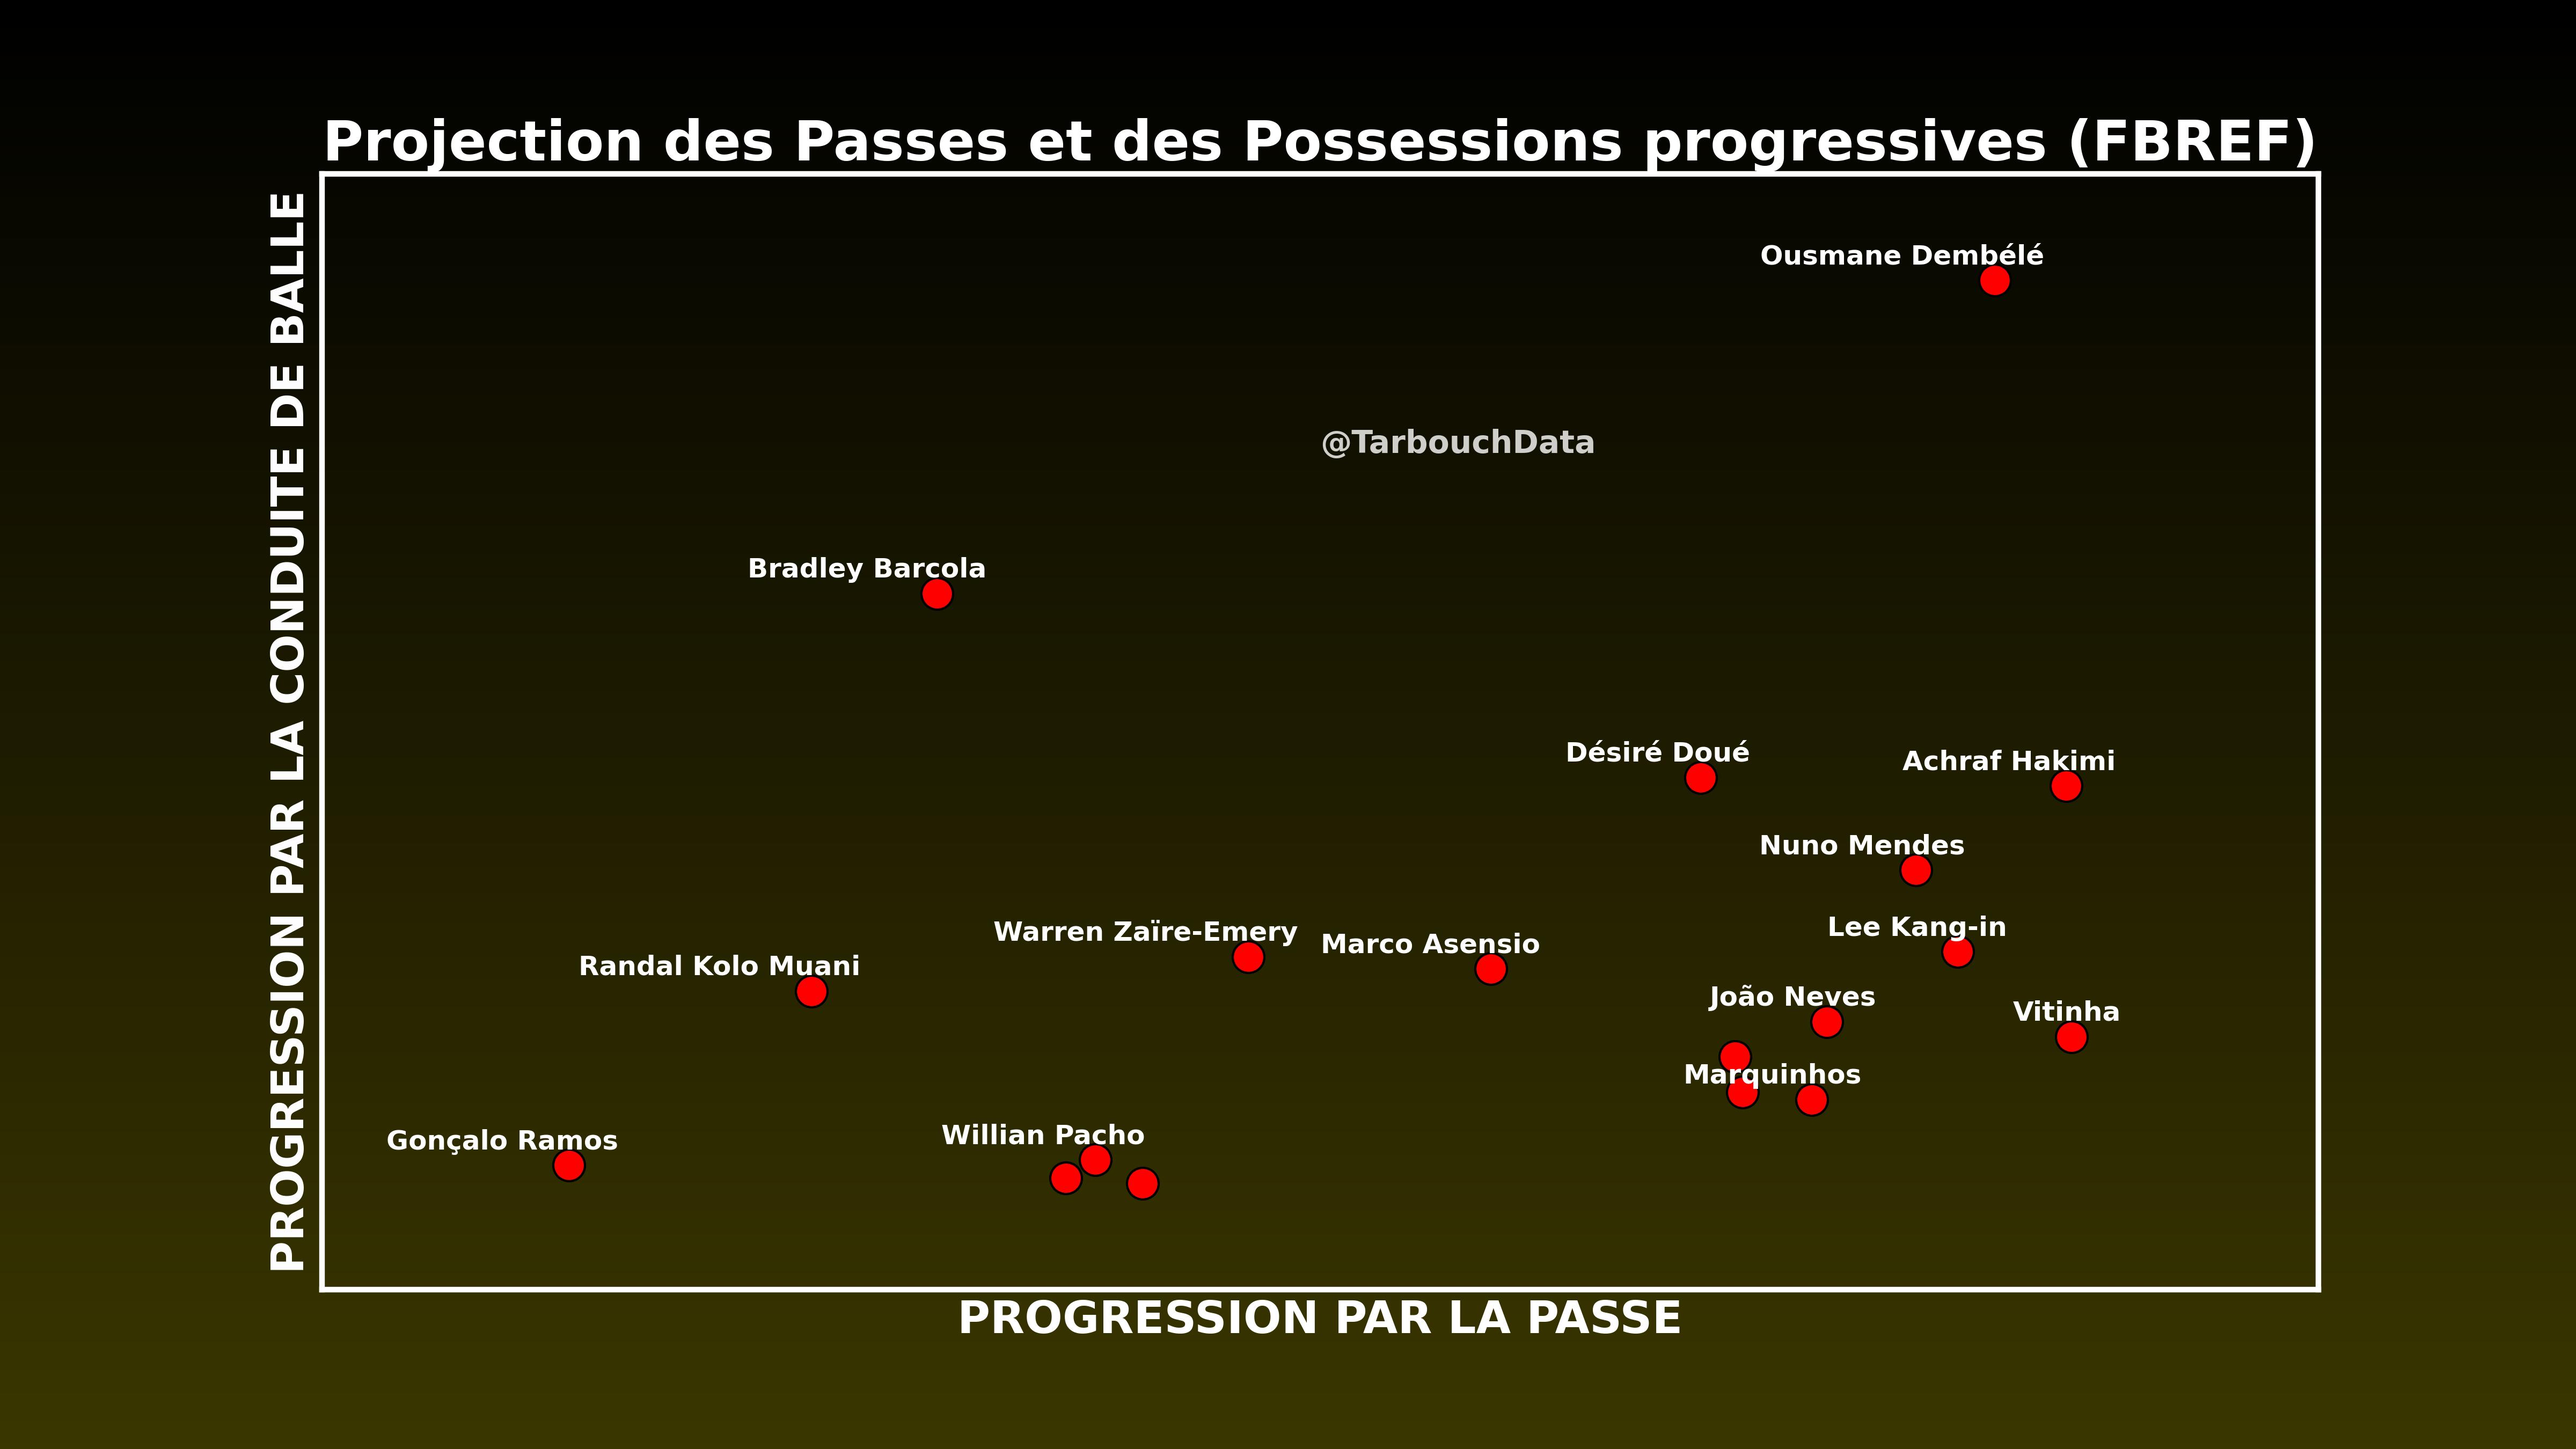
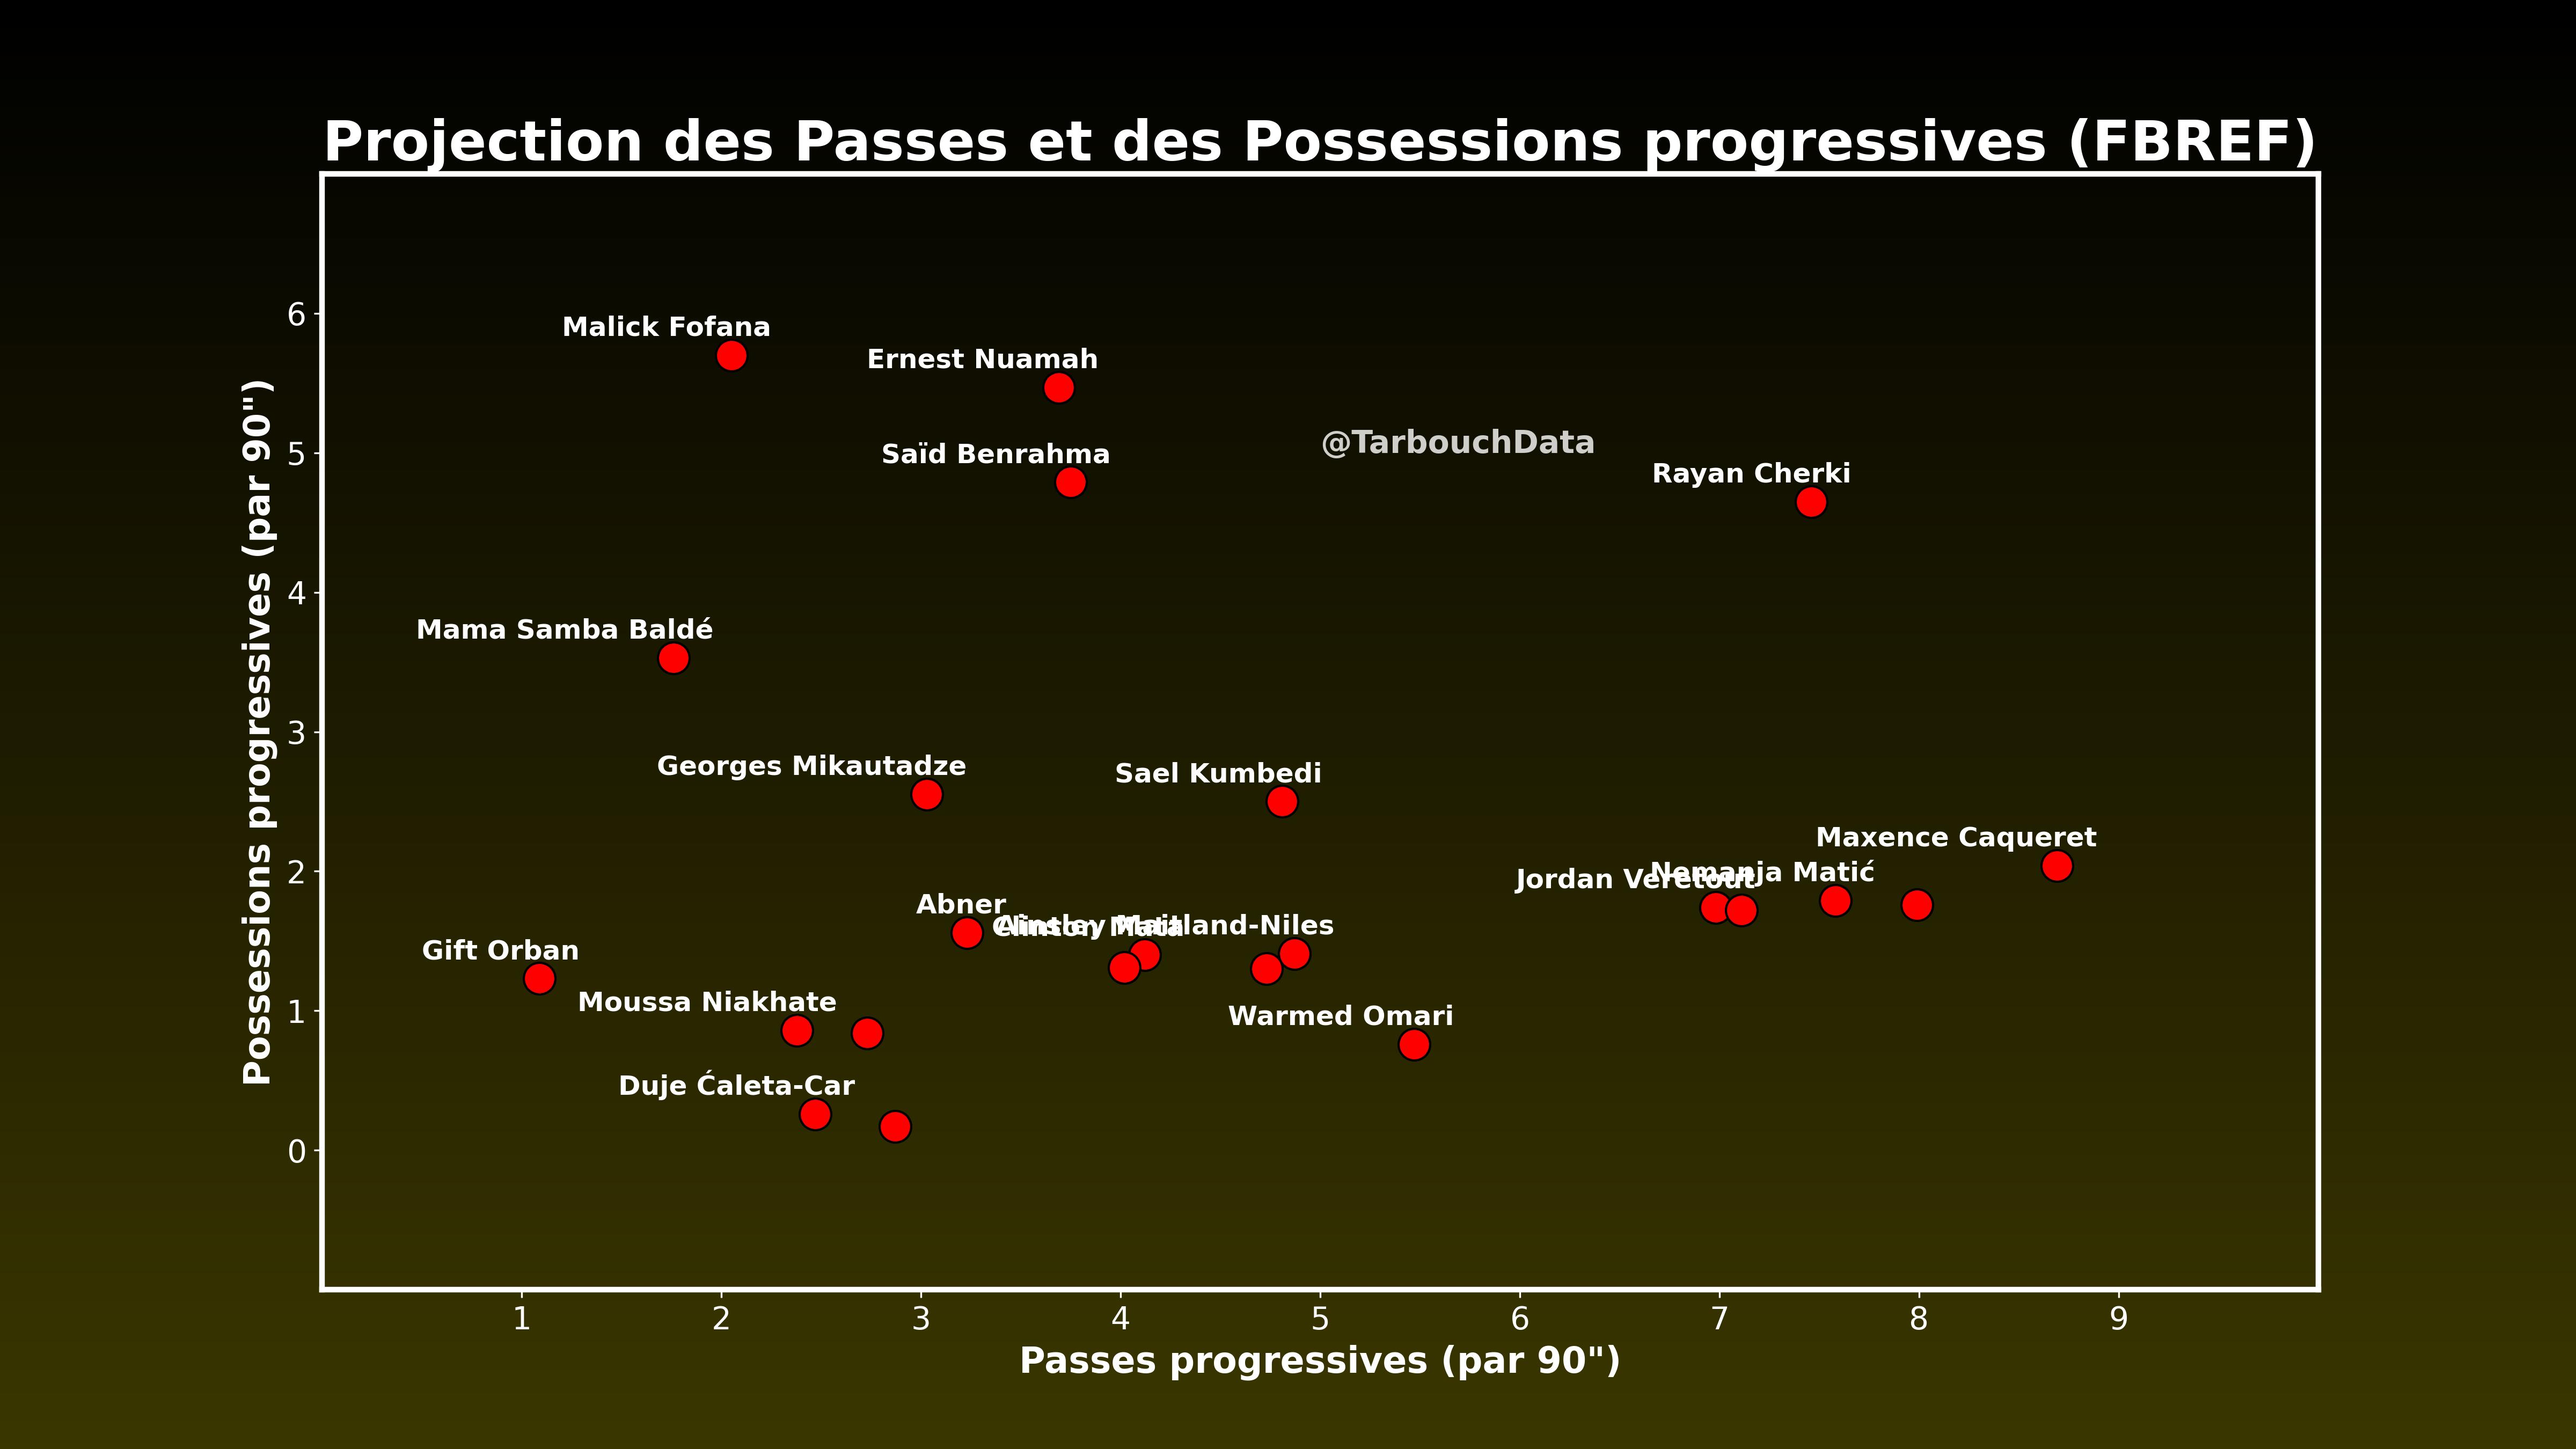
MAJ - ok

diff --git a/src/data_visualizer.py b/src/data_visualizer.py
@@ -34,7 +34,7 @@ class DataVisualizer:
             spine.set_edgecolor('white')  # Couleur blanche
             spine.set_linewidth(2.5)  # Épaisseur du contour
 
-    def plot_players_from_list(self, player_names, threshold_distance=1,):
+    def plot_players_from_list(self, player_names, threshold_distance=1):
         # Créer une figure avec des dimensions adaptées pour les appareils mobiles
         fig = plt.figure(figsize=(16, 9))  # Largeur 16, hauteur 9 pour un ajustement mobile
 
@@ -55,8 +55,8 @@ class DataVisualizer:
         scatter = ax.scatter(x_values, y_values, color='red', edgecolor='black', s=200, zorder=1)
 
         # Ajuster les limites de l'axe
-        ax.set_xlim(np.min(x_values) - 1, np.max(x_values) + 1)
-        ax.set_ylim(np.min(y_values) - 1, np.max(y_values) + 1)
+        ax.set_xlim(np.floor(np.min(x_values)) - 1, np.ceil(np.max(x_values)) + 1)
+        ax.set_ylim(np.floor(np.min(y_values)) - 1, np.ceil(np.max(y_values)) + 1)
 
         # Afficher les noms des joueurs
         displayed_names = []
@@ -72,20 +72,24 @@ class DataVisualizer:
         # Ajouter le titre en blanc et en gras
         ax.set_title('Projection des Passes et des Possessions progressives (FBREF)', fontsize=25, color='white', fontweight='bold')
 
-        # Ajouter les labels des axes en blanc et en gras
-        ax.set_xlabel('PROGRESSION PAR LA PASSE', fontsize=20, color='white', fontweight='bold')
-        ax.set_ylabel('PROGRESSION PAR LA CONDUITE DE BALLE', fontsize=20, color='white', fontweight='bold')
+        # Ajouter les labels des axes en blanc et en gras avec détails supplémentaires
+        ax.set_xlabel('Passes progressives (par 90")', fontsize=16, color='white', fontweight='bold')
+        ax.set_ylabel('Possessions progressives (par 90")', fontsize=16, color='white', fontweight='bold')
 
+        # Ajouter l'étiquette Twitter
         ax.text(0.5, 0.75, f"@TarbouchData", fontsize=14, color='white', fontweight='bold', ha='left', transform=ax.transAxes, alpha=0.8)
 
         # Appliquer la personnalisation des axes (contours blancs et épais)
         self.customize_axes(ax)
 
-        # Retirer les ticks des axes pour rendre l'affichage plus propre
-        ax.set_xticks([])
-        ax.set_yticks([])
+        # Ajouter les ticks des axes (graduations) en blanc
+        ax.tick_params(axis='x', colors='white', labelsize=14)  # Ticks en blanc et taille des labels réduite
+        ax.tick_params(axis='y', colors='white', labelsize=14)
 
-        plt.savefig("viz_data/projection_passes_possessions.jpeg", format='jpeg', dpi=300)  # Sauvegarde en format JPEG avec résolution de 300 DPI
+        # Appliquer les ticks pour montrer les valeurs de progression moyenne par match (seulement des entiers)
+        ax.set_xticks(np.arange(np.floor(np.min(x_values)), np.ceil(np.max(x_values)) + 1, 1))
+        ax.set_yticks(np.arange(np.floor(np.min(y_values)), np.ceil(np.max(y_values)) + 1, 1))
 
-        # Afficher le graphique à l'écran
+        # Sauvegarder le fichier et afficher le graphique
+        plt.savefig("viz_data/projection_passes_possessions.jpeg", format='jpeg', dpi=300)
         plt.show()

diff --git a/src/main.py b/src/main.py
@@ -8,14 +8,36 @@ def main():
     data_extractor = DataExtractor(file_path)
     
     # Exemple de liste de joueurs à afficher
+    #player_names = [
+    #    "Willian Pacho", "Achraf Hakimi", "João Neves", "Warren Zaïre-Emery", 
+    #    "Bradley Barcola", "Marquinhos", "Lucas Beraldo", 
+    #    "Ousmane Dembélé", "Lee Kang-in", "Vitinha", "Marco Asensio", 
+    #    "Fabián Ruiz Peña", "Nuno Mendes", "Randal Kolo Muani", 
+    #    "Désiré Doué", "Milan Škriniar", "Ibrahim Mbaye", "Yoram Zague", 
+    #    "Gonçalo Ramos", "Senny Mayulu", "Naoufel El Hannach", "Carlos Soler", 
+    #]
+
+    #player_names = [
+    #    "Gerónimo Rulli", "Michael Amir Murillo", "Pierre Højbjerg", "Mason Greenwood", "Luis Henrique", 
+    #    "Geoffrey Kondogbia", "Amine Harit", "Lilian Brassier", "Derek Cornelius", "Elye Wahi", 
+    #    "Leonardo Balerdi", "Quentin Merlin", "Neal Maupay", "Ismaël Koné", "Valentin Rongier", 
+    #    "Pol Lirola", "Ulisses Garcia", "Valentin Carboni", "Jon Rowe", "Adrien Rabiot", 
+    #    "Bamo Meïté", "Enzo Sternal", "Faris Pemi Moumbagna", "Keyliane Abdallah", 
+    #    "Darryl Bakola", "Salim Ben Seghir", "Jeffrey De Lange", "Emmanuel Koum Mbondo", 
+    #    "Gael Lafont", "Roggerio Nyakossi", "Adrien Rabiot"
+    #]
+
     player_names = [
-        "Willian Pacho", "Achraf Hakimi", "João Neves", "Warren Zaïre-Emery", 
-        "Bradley Barcola", "Marquinhos", "Lucas Beraldo", 
-        "Ousmane Dembélé", "Lee Kang-in", "Vitinha", "Marco Asensio", 
-        "Fabián Ruiz Peña", "Nuno Mendes", "Randal Kolo Muani", 
-        "Désiré Doué", "Milan Škriniar", "Ibrahim Mbaye", "Yoram Zague", 
-        "Gonçalo Ramos", "Senny Mayulu", "Naoufel El Hannach", "Carlos Soler", 
+        "Lucas Perri", "Duje Ćaleta-Car", "Clinton Mata", "Ainsley Maitland-Niles",
+        "Alexandre Lacazette", "Maxence Caqueret", "Corentin Tolisso", "Moussa Niakhate",
+        "Abner", "Nemanja Matić", "Malick Fofana", "Saïd Benrahma", "Georges Mikautadze",
+        "Nicolás Tagliafico", "Jordan Veretout", "Rayan Cherki", "Ernest Nuamah", 
+        "Gift Orban", "Tanner Tessmann", "Sael Kumbedi", "Wilfried Zaha", 
+        "Orel Mangala", "Mahamadou Diawara", "Mama Samba Baldé", "Adryelson", 
+        "Warmed Omari", "Rémy Descamps", "Anthony Lopes", "Enzo Molebe", "Justin João"
     ]
+
+
     
     # Obtenir les données pour la liste de joueurs sans filtrer par position
     player_data = data_extractor.get_players_from_list(player_names)
